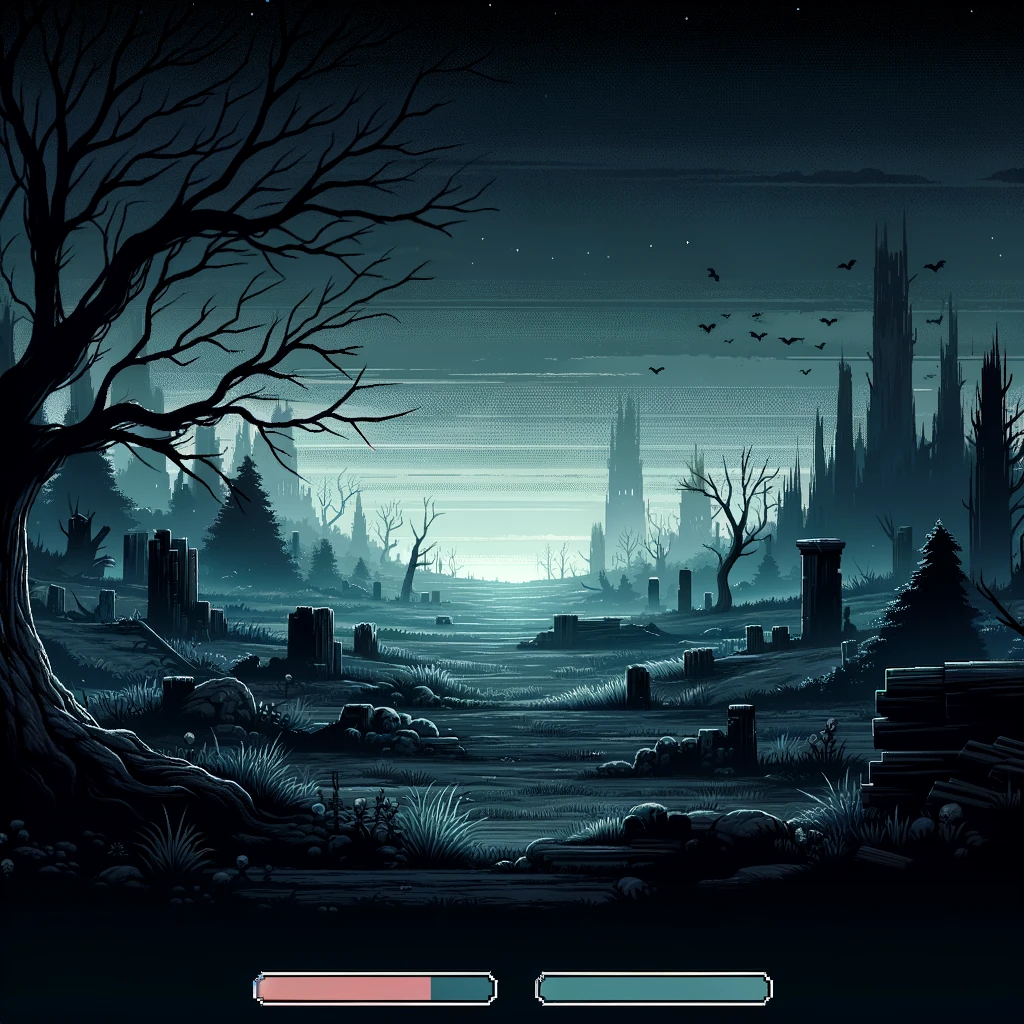
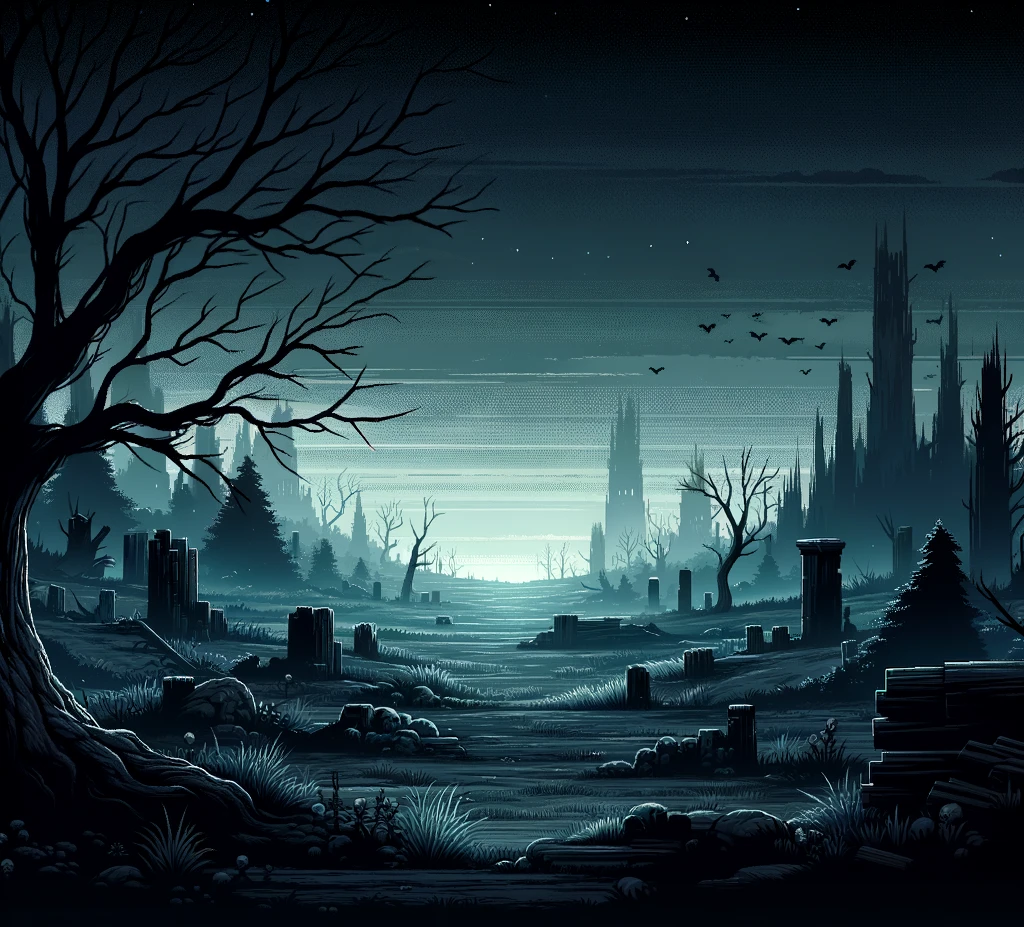
feat: Added Game Over Background

diff --git a/src/scenes/GameOver.js b/src/scenes/GameOver.js
@@ -3,9 +3,7 @@ class GameOverScene extends Phaser.Scene {
     super('GameOverScene');
   }
 
-  loadFont() {
-    const scene = this;
-
+  preload() {
     WebFont.load({
       custom: {
         families: ['GameOver'],
@@ -15,19 +13,28 @@ class GameOverScene extends Phaser.Scene {
         scene.addFont();
       },
     });
+
+    this.load.image('game_over', 'src/assets/images/backgrounds/game-over.png');
   }
 
-  addFont() {
-    this.add.text(100, 100, 'Game Over', {
-      fontFamily: 'GameOver',
-      fontSize: '32px',
-      fill: '#ffffff',
-    });
-  }
+  create() {
+    this.time.delayedCall(
+      1000,
+      () => {
+        this.add
+          .text(WINDOW_WIDTH * 0.5, WINDOW_HEIGHT * 0.2, 'Game Over', {
+            fontFamily: 'GameOver',
+            fontSize: '60px',
+            fill: '#ffffff',
+          })
+          .setOrigin(0.5, 0.5);
+      },
+      this,
+    );
 
-  preload() {
-    this.loadFont();
-  }
+    const backgroundImg = this.add.image(0, 0, 'game_over').setOrigin(0, 0);
 
-  create() {}
+    backgroundImg.displayWidth = WINDOW_WIDTH;
+    backgroundImg.displayHeight = WINDOW_HEIGHT;
+  }
 }

diff --git a/src/scenes/Game.js b/src/scenes/Game.js
@@ -59,12 +59,12 @@ class GameScene extends Phaser.Scene {
     this.healthBarImg.setScale(BAR_SCALE_X, BAR_SCALE_Y);
     this.scoreImg.setScale(BAR_SCALE_X, BAR_SCALE_Y);
 
-    this.score = this.add.text(SCORE_TEXT_X, SCORE_TEXT_Y, '0', {
-      font: '32px "Press Start 2P"',
-      align: 'left',
-    });
-
-    this.score.setOrigin(1, 0);
+    this.score = this.add
+      .text(SCORE_TEXT_X, SCORE_TEXT_Y, '0', {
+        font: '32px "Press Start 2P"',
+        align: 'left',
+      })
+      .setOrigin(1, 0);
   }
 
   handleBulletEnemyCollision(bullet, enemy) {

diff --git a/src/main.js b/src/main.js
@@ -11,6 +11,7 @@ const config = {
     },
   },
   scene: [GameOverScene, MenuScene, GameScene],
+  // scene: [MenuScene, GameScene],
 };
 
 new Phaser.Game(config);
